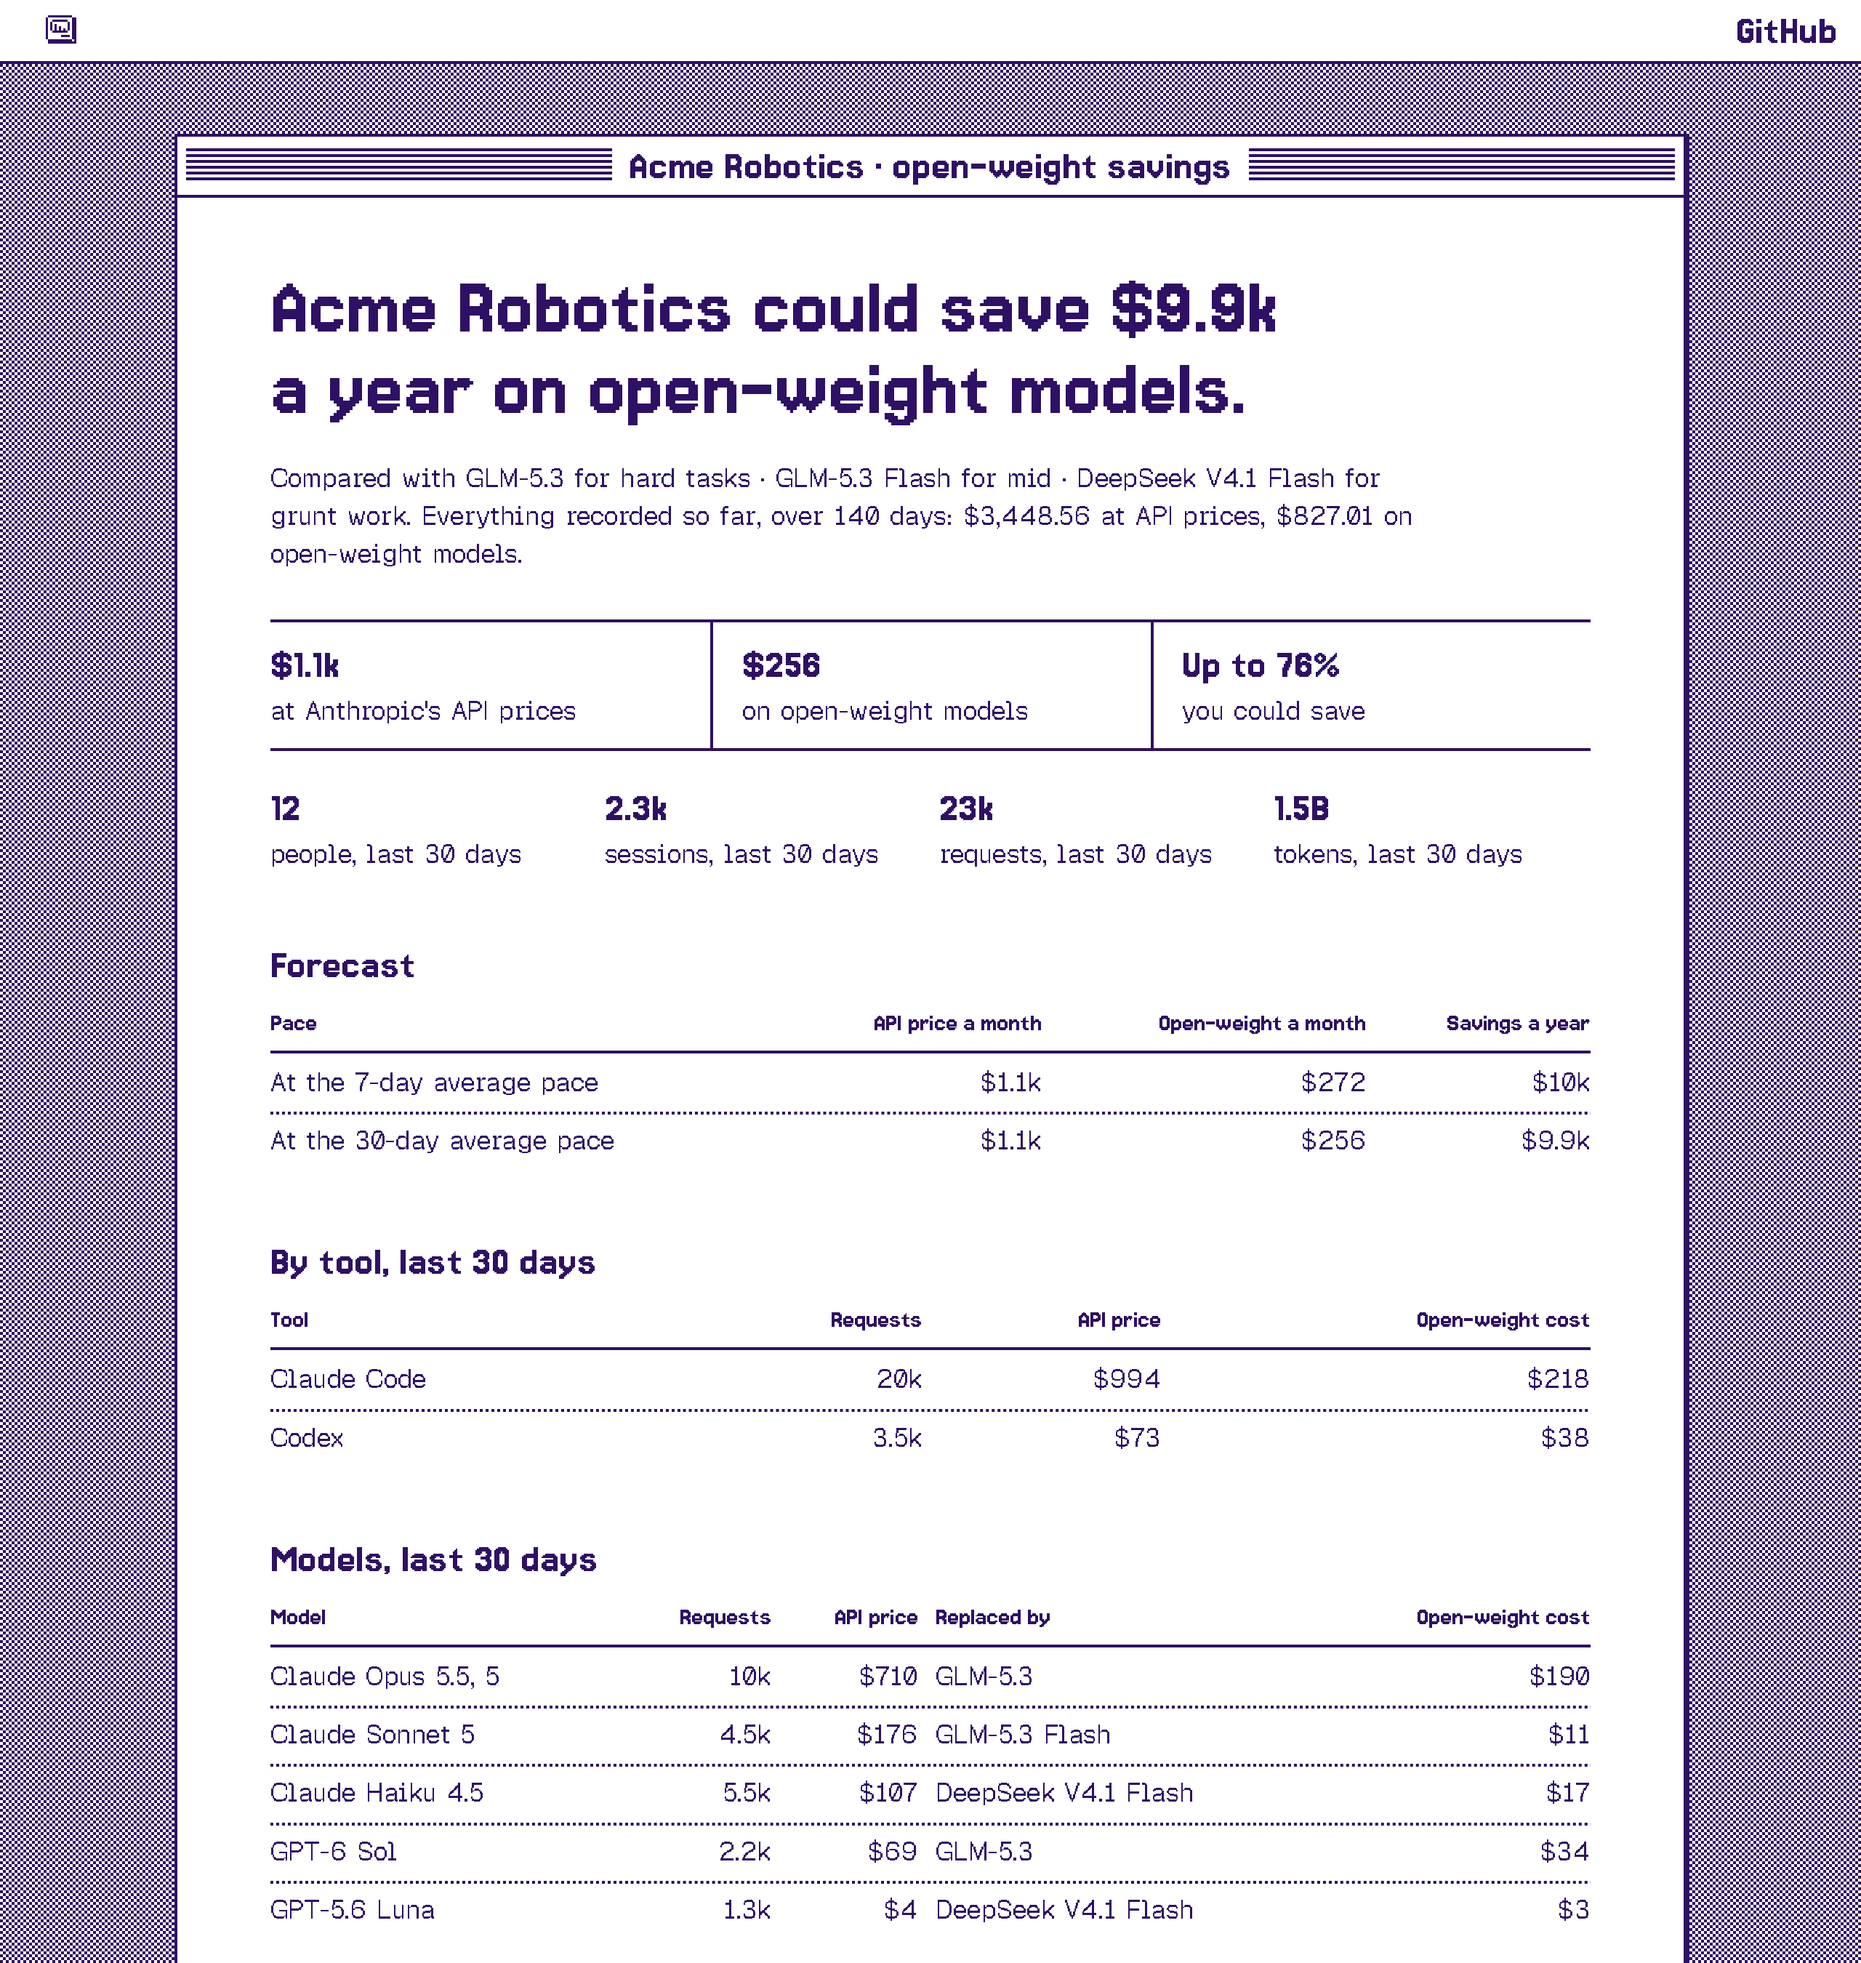
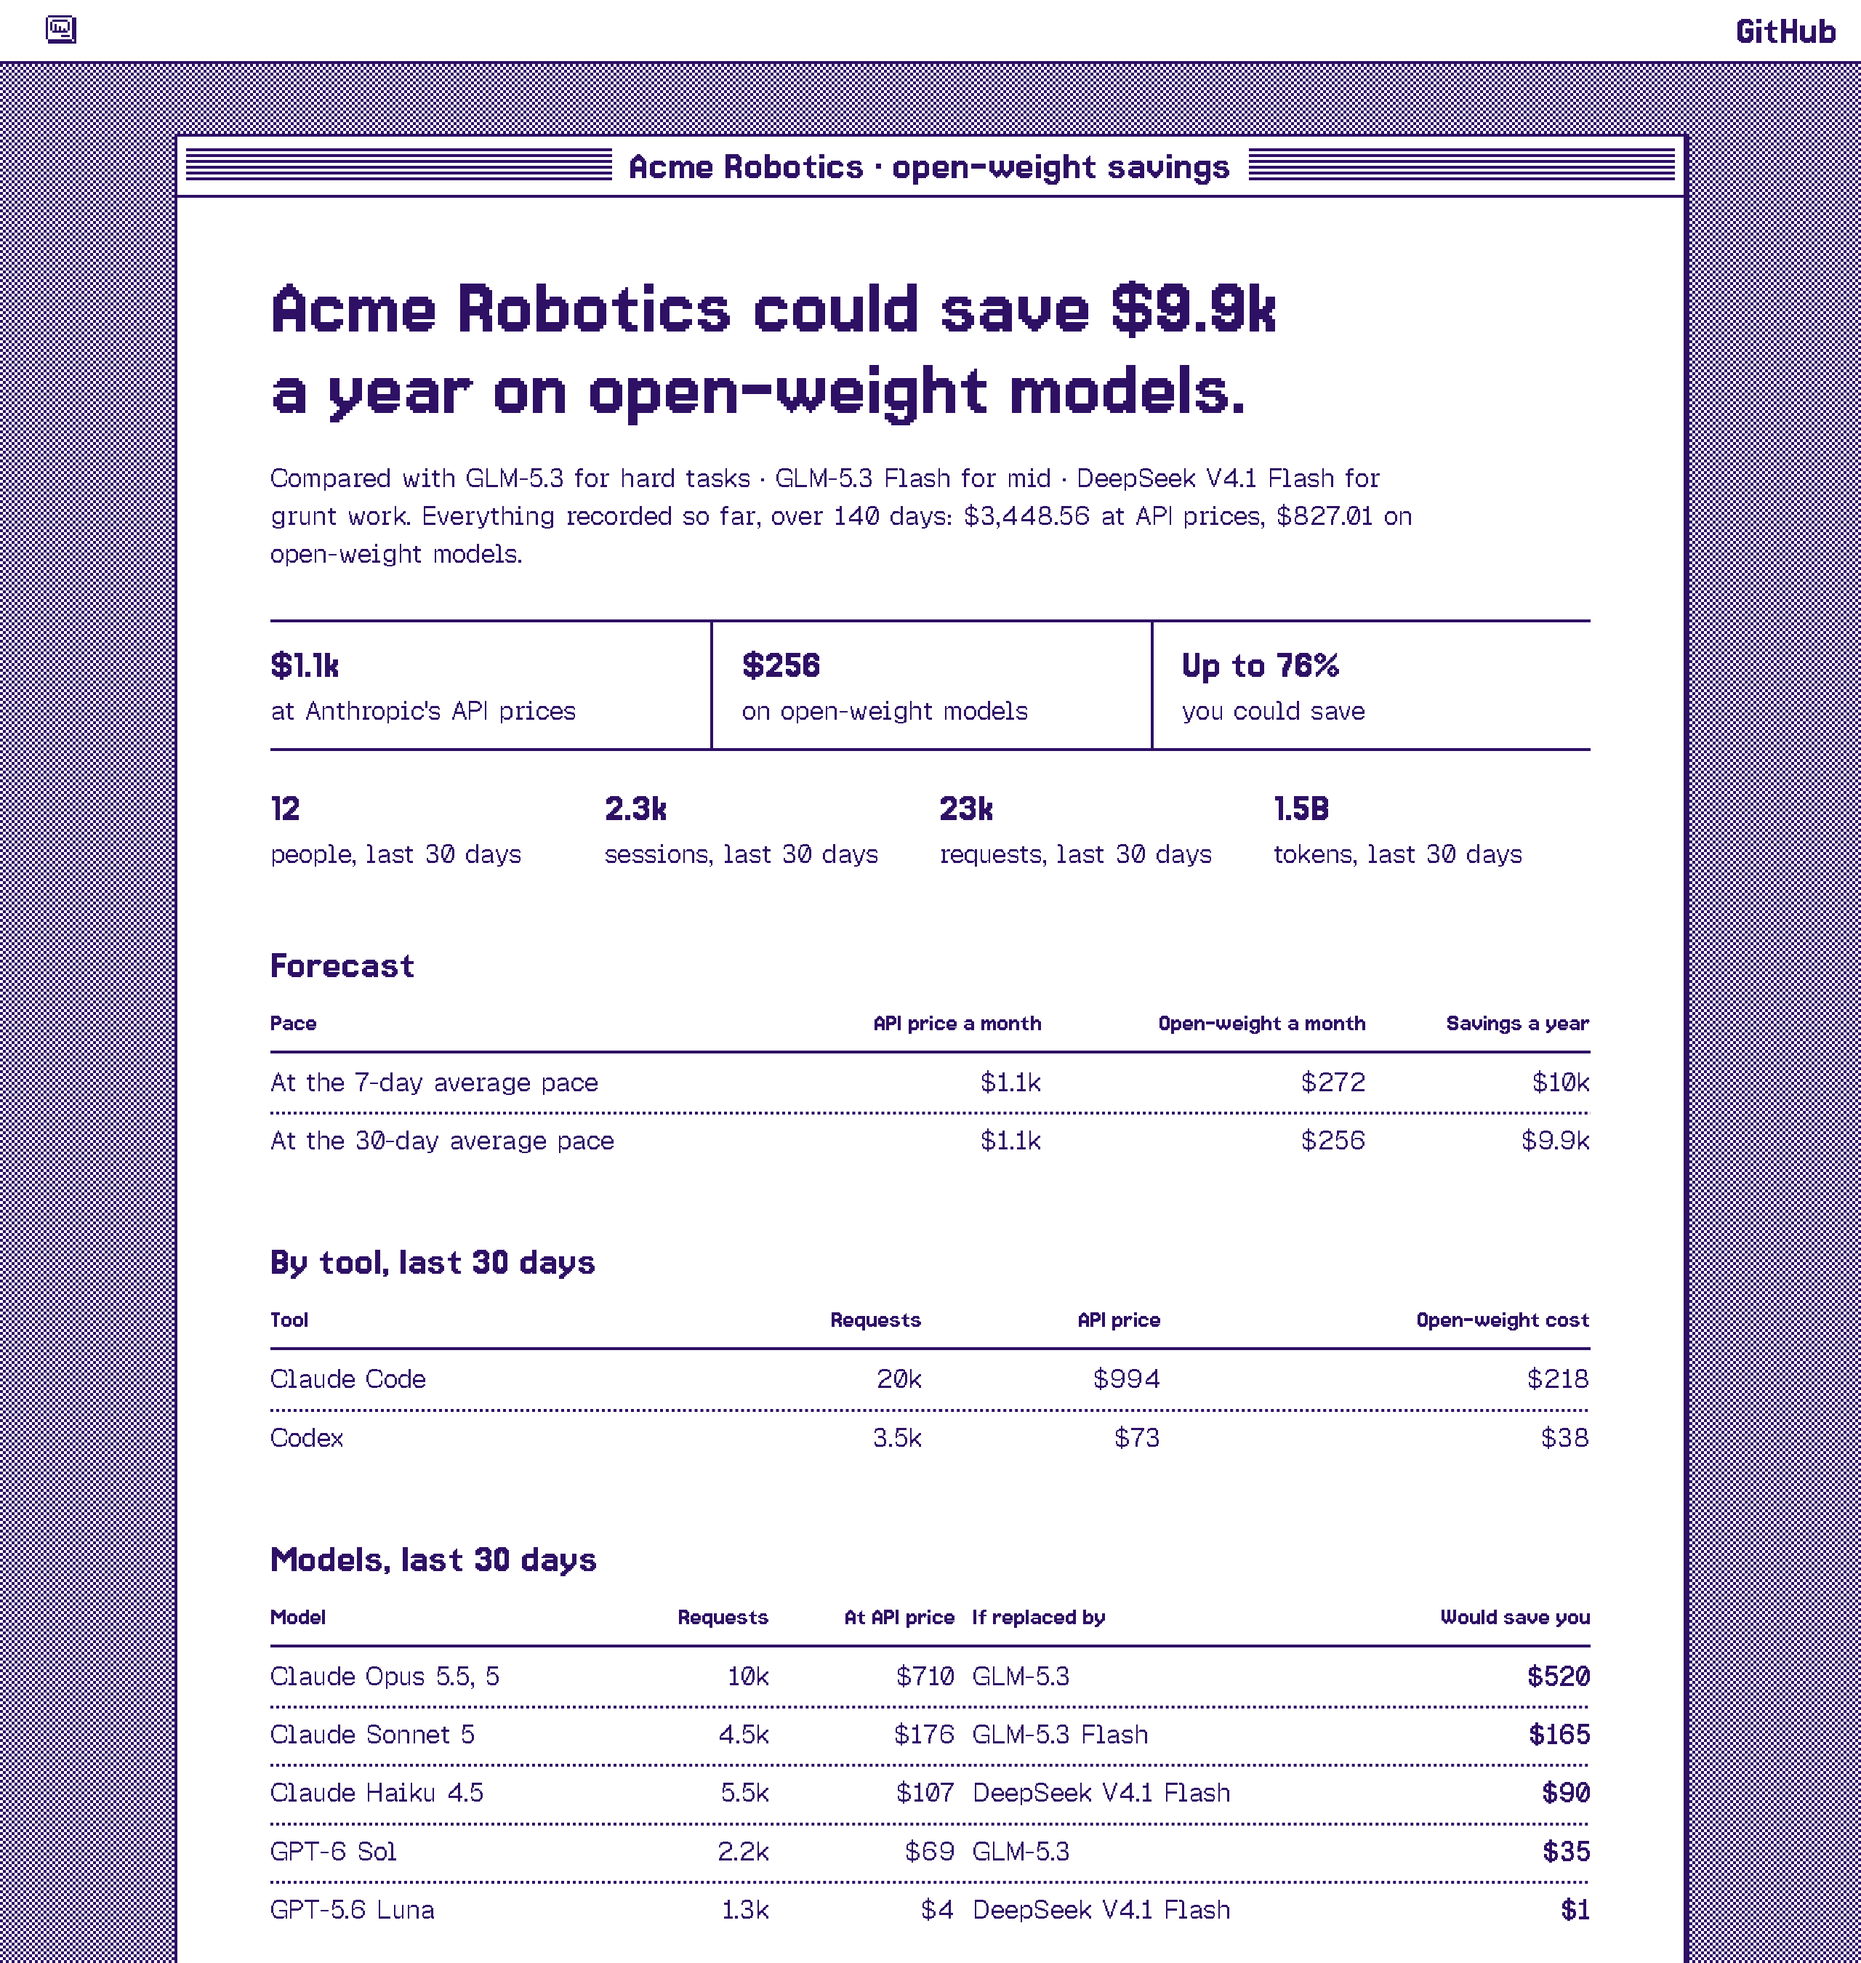
feat(site): model table shows what each model would save you
Columns are now Model, Requests, At API price, If replaced by, and Would save
you (bold): the savings, where the last column used to be the open-weight
cost.

Changed region(s): [[0.4688, 0.8089, 0.6562, 0.9956], [0.7812, 0.8089, 0.8438, 0.9644]]

diff --git a/site/src/api.ts b/site/src/api.ts
@@ -70,9 +70,9 @@ function tools(report: Report): string {
 
 function models(report: Report): string {
   const rows = byFamily(report.models)
-    .map((row) => `<tr><td>${esc(row.label)}</td><td class="num">${count(row.requests)}</td><td class="num">${usd(row.price)}</td><td>${esc(row.replacement ?? "")}</td><td class="num">${usd(row.alt)}</td></tr>`)
+    .map((row) => `<tr><td>${esc(row.label)}</td><td class="num">${count(row.requests)}</td><td class="num">${usd(row.price)}</td><td>${esc(row.replacement ?? "")}</td><td class="num"><strong>${usd(row.price - row.alt)}</strong></td></tr>`)
     .join("");
-  return `<table class="sheet"><thead><tr><th>Model</th><th class="num">Requests</th><th class="num">API price</th><th>Replaced by</th><th class="num">Open&#8209;weight cost</th></tr></thead><tbody>${rows}</tbody></table>`;
+  return `<table class="sheet"><thead><tr><th>Model</th><th class="num">Requests</th><th class="num">At API price</th><th>If replaced by</th><th class="num">Would save you</th></tr></thead><tbody>${rows}</tbody></table>`;
 }
 
 function frame(title: string, body: string, css: string): string {
